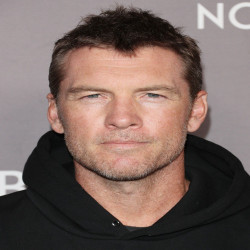
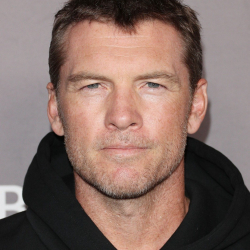
update 4th task

diff --git a/controllers/auth.js b/controllers/auth.js
@@ -93,14 +93,20 @@ const updateAvatar = async (req, res) => {
   const filename = `${_id}_${originalname}`;
   const resultUpload = path.join(avatarDir, filename);
 
-  Jimp.read(tempUpload)
-    .then((image) => {
-      image.resize(250, 250).quality(90).write(resultUpload);
-    })
-    .catch((err) => {
-      throw HttpError(400, err);
-    });
-  fs.unlink(tempUpload);
+  // Jimp.read(tempUpload)
+  //   .then((image) => {
+  //     image.resize(250, 250).quality(90).write(resultUpload);
+  //   })
+  //   .catch((err) => {
+  //     throw HttpError(400, err);
+  //   });
+  // fs.unlink(tempUpload);
+
+    const img = await Jimp.read(tempUpload);
+    await img
+    .autocrop()
+    .cover(250, 250, Jimp.HORIZONTAL_ALIGN_CENTER | Jimp.VERTICAL_ALIGN_MIDDLE)
+    .writeAsync(tempUpload);
 
   await fs.rename(tempUpload, resultUpload);
   const avatarURL = path.join("avatars", filename);
